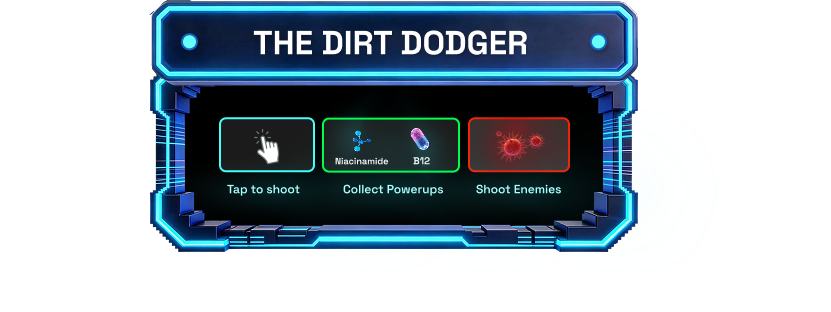
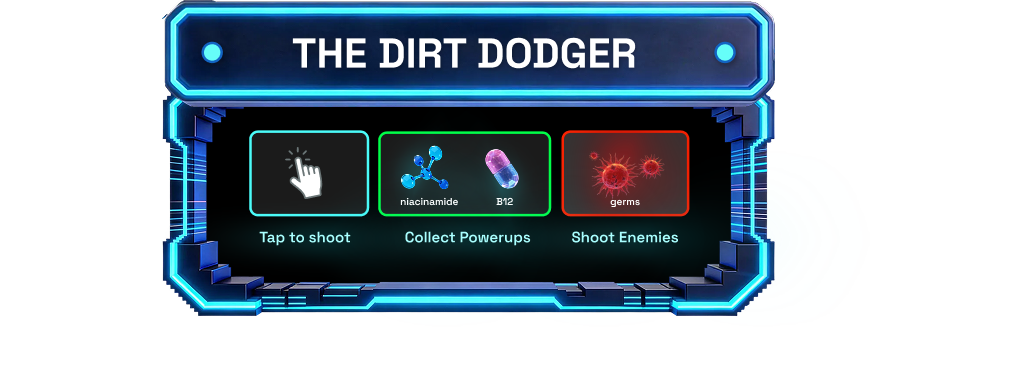
Morning changes

Changed region(s): [[0.1504, 0.0, 0.7822, 0.8654]]

diff --git a/src/game.js b/src/game.js
@@ -84,8 +84,8 @@
       });
       
       // New Pickups
-      this.load.image("niancinamide", "assets/Images/Modern-bike-game/Niancinamide_new.png");
-      this.load.image("b12", "assets/Images/Modern-bike-game/B12_new.png");
+      this.load.image("niancinamide", "assets/Images/Modern-bike-game/Niancinamide_2.png");
+      this.load.image("b12", "assets/Images/Modern-bike-game/B12_2.png");
       this.load.image("methanol_glow", "assets/Images/Methanol _glow_gradient.png");
       this.load.image("virus", "assets/Images/Modern-bike-game/Enemy_Virus.png");
       this.load.image("virus_glow", "assets/Images/Modern-bike-game/Enemy_Glow.png");
@@ -164,8 +164,9 @@
       this.bikeGlow = this.add.image(this.player.x, this.player.y, "bike_glow_new");
       this.bikeGlow.setOrigin(0.5, 0.5); 
       this.bikeGlow.setDepth(201); 
-      this.bikeGlow.displayWidth = BIKE_DISPLAY_W * 2.7;
-      this.bikeGlow.displayHeight = BIKE_DISPLAY_H * 2.7;
+      const glowScale = 415 / BIKE_DISPLAY_H;
+      this.bikeGlow.displayWidth = BIKE_DISPLAY_W * glowScale;
+      this.bikeGlow.displayHeight = 415;
       this.bikeGlow.setAlpha(0);
       this.bikeGlow.setVisible(false);
 
@@ -176,23 +177,6 @@
       this.dust.play("dust_anim");
       this.dust.setScale(0.4);
 
-      // --- START SCREEN ELEMENTS (Phaser) ---
-      this.startLogo = this.add.image(0, 0, "sah_logo");
-      this.startLogo.setDepth(100);
-      this.startLogo.setVisible(false);
-
-      this.startScreenContainer = this.add.container(0, 0);
-      this.startScreenContainer.setDepth(101);
-      this.startScreenContainer.setVisible(false);
-
-      this.startInstructions = this.add.image(0, 0, "start_instructions");
-      this.startBtnSprite = this.add.image(0, 0, "start_btn");
-      this.startBtnSprite.setInteractive({ useHandCursor: true });
-      this.startBtnSprite.on("pointerover", () => this.startBtnSprite.setScale(this.startBtnSprite.scale * 1.05));
-      this.startBtnSprite.on("pointerout", () => this.startBtnSprite.setScale(this.startBtnSprite.scale / 1.05));
-      this.startBtnSprite.on("pointerdown", () => this.startGame());
-
-      this.startScreenContainer.add([this.startInstructions, this.startBtnSprite]);
 
       // --- OBJECT POOLING ---
       this.ingredients = this.add.group();
@@ -268,33 +252,6 @@
         this.bikeGlow.angle = this.player.angle;
       }
 
-      // --- Reposition Start Screen Elements ---
-      if (this.startLogo) {
-        // Logo at top left with some margin for safe area
-        const logoPadding = Math.max(30, w * 0.04);
-        const logoScale = Math.min((w * 0.25) / this.startLogo.width, (h * 0.2) / this.startLogo.height, 0.45);
-        this.startLogo.setScale(logoScale);
-        this.startLogo.setPosition(logoPadding + (this.startLogo.displayWidth * 0.5), logoPadding + (this.startLogo.displayHeight * 0.5));
-      }
-
-      if (this.startScreenContainer && this.startInstructions && this.startBtnSprite) {
-        const instrS = Math.min((w * 0.85) / this.startInstructions.width, (h * 0.6) / this.startInstructions.height);
-        this.startInstructions.setScale(instrS);
-        
-        const btnScale = Math.min((w * 0.25) / this.startBtnSprite.width, (h * 0.12) / this.startBtnSprite.height, 0.9);
-        this.startBtnSprite.setScale(btnScale);
-
-        const gap = 30;
-        const totalHeight = (this.startInstructions.height * instrS) + gap + (this.startBtnSprite.height * btnScale);
-        
-        // Position instructions at relative 0 (centered in container)
-        this.startInstructions.setPosition(0, -totalHeight/2 + (this.startInstructions.height * instrS * 0.5));
-        // Position button below instructions
-        this.startBtnSprite.setPosition(0, this.startInstructions.y + (this.startInstructions.height * instrS * 0.5) + gap + (this.startBtnSprite.height * btnScale * 0.5));
-        
-        // Center the container on screen
-        this.startScreenContainer.setPosition(w / 2, h / 2);
-      }
 
       // Reposition end screen elements on resize
       if (this.endCreditsImg) {
@@ -317,21 +274,17 @@
 
     shoot() {
       if (this.waitingToStart) {
-        this.waitingToStart = false;
-        const startElements = [];
-        if (this.startScreenContainer) startElements.push(this.startScreenContainer);
-        if (this.startLogo) startElements.push(this.startLogo);
+        // Prevent immediate start from the same click
+        if (this.time.now - (this.startClickTime || 0) < 200) return;
 
-        if (startElements.length > 0) {
-          this.tweens.add({
-            targets: startElements,
-            alpha: 0,
-            duration: 500,
-            onComplete: () => {
-              startElements.forEach(el => el.setVisible(false));
-            }
-          });
+        this.waitingToStart = false;
+
+        // Request fullscreen on first tap
+        if (this.scale.fullscreenSupported) {
+          this.scale.startFullscreen();
         }
+
+
         if (this.motorcycleSound) {
           this.motorcycleSound.play();
         }
@@ -405,14 +358,7 @@
         this.bikeGlow.setVisible(false);
         this.bikeGlow.setAlpha(0);
       }
-      if (this.startScreenContainer) {
-        this.startScreenContainer.setVisible(true);
-        this.startScreenContainer.setAlpha(1);
-      }
-      if (this.startLogo) {
-        this.startLogo.setVisible(true);
-        this.startLogo.setAlpha(1);
-      }
+      
       if (this.dust) {
         this.dust.setVisible(false);
       }
@@ -426,19 +372,11 @@
       if (overlay) overlay.style.display = "none";
       if (hudEl) hudEl.style.display = "flex";
 
-      // Request fullscreen using Phaser's scale manager (more robust for mobile)
-      if (this.scale.fullscreenSupported) {
-        this.scale.startFullscreen();
-      } else {
-        // Fallback for browsers with restricted Fullscreen API (like some iOS versions)
-        const el = document.documentElement;
-        const rfs = el.requestFullscreen || el.webkitRequestFullscreen || el.mozRequestFullScreen || el.msRequestFullscreen;
-        if (rfs) rfs.call(el).catch(() => {});
-      }
-
       this.resetGameState();
       this.running = true;
       this.waitingToStart = true;
+      this.startClickTime = this.time.now; // Record when they clicked start
+
 
       if (this.victorySound) this.victorySound.stop();
     }
@@ -450,7 +388,7 @@
       // Full screen end credits image
       this.endCreditsImg = this.add.image(w / 2, h / 2, "end_credits");
       this.endCreditsImg.setDisplaySize(w, h);
-      this.endCreditsImg.setDepth(100);
+      this.endCreditsImg.setDepth(400);
       this.endCreditsImg.setAlpha(0);
 
       // Buttons container or positioning
@@ -469,7 +407,7 @@
         strokeThickness: 4
       });
       this.visitBtnText.setOrigin(0.5);
-      this.visitBtnText.setDepth(104);
+      this.visitBtnText.setDepth(404);
       this.visitBtnText.setAlpha(0);
 
       this.visitBtnBg = this.add.rectangle(
@@ -479,7 +417,7 @@
         0xc6422c
       );
       this.visitBtnBg.setOrigin(0.5);
-      this.visitBtnBg.setDepth(103);
+      this.visitBtnBg.setDepth(403);
       this.visitBtnBg.setAlpha(0);
       this.visitBtnBg.setInteractive({ useHandCursor: true });
       this.visitBtnBg.on("pointerover", () => this.visitBtnBg.setFillStyle(0xa83520));
@@ -679,7 +617,7 @@
 
     spawnIngredient() {
       const type = Math.random() < 0.5 ? "niancinamide" : "b12";
-      const sz = (60 + Math.random() * 20) * 1.3 * 2; 
+      const sz = 80 * 1.3 * 2; 
       const y = this.groundY - sz / 2 + 5; 
       const x = this.scale.width + 80;
 

diff --git a/styles.css b/styles.css
@@ -147,7 +147,88 @@ body {
 
 
 /* ---------- Rotate-to-landscape prompt ---------- */
+@media (orientation: portrait) {
+  #overlay {
+    display: none !important;
+  }
+}
 
+/* ---------- Overlay (Welcome Screen) ---------- */
+.overlay {
+  position: absolute;
+  inset: 0;
+  display: flex;
+  flex-direction: column;
+  z-index: 30;
+  background: transparent;
+  pointer-events: auto;
+}
+
+/* --- Logo badge --- */
+.overlay-logo {
+  position: absolute;
+  top: clamp(20px, 8vh, 60px);
+  left: 40px;
+  background: #1a1a2e;
+  padding: clamp(4px, 0.8vw, 8px);
+  display: flex;
+  align-items: center;
+  justify-content: center;
+  border-radius: 4px;
+}
+
+.overlay-logo-img {
+  width: clamp(120px, 28vh, 320px);
+  height: auto;
+  display: block;
+}
+
+/* --- Center content --- */
+.overlay-center {
+  flex: 1;
+  display: flex;
+  flex-direction: column;
+  align-items: center;
+  justify-content: center;
+  gap: 4vh;
+  padding: 0 16px;
+  /* slight vertical offset to sit above bike */
+  margin-top: -4vh;
+}
+
+.start-instructions-img {
+  max-width: 95%;
+  max-height: 60vh;
+  object-fit: contain;
+  margin-bottom: 0;
+}
+
+.overlay-btn-img {
+  background: none;
+  border: none;
+  padding: 0;
+  cursor: pointer;
+  transition: transform 0.2s ease;
+  margin-top: 0;
+  position: relative;
+  z-index: 10;
+}
+
+.overlay-btn-img img {
+  height: clamp(50px, 12vh, 80px);
+  width: auto;
+  display: block;
+}
+
+.overlay-btn-img:hover {
+  transform: scale(1.05);
+}
+
+.overlay-btn-img:active {
+  transform: scale(0.95);
+}
+
+/* ---------- Rotate-to-landscape prompt ---------- */
 .rotate-prompt {
   display: none; /* Controlled by JS now */
   position: fixed;

diff --git a/index.html b/index.html
@@ -7,7 +7,7 @@
     <link rel="preconnect" href="https://fonts.googleapis.com" />
     <link rel="preconnect" href="https://fonts.gstatic.com" crossorigin />
     <link href="https://fonts.googleapis.com/css2?family=Press+Start+2P&display=swap" rel="stylesheet" />
-    <link rel="stylesheet" href="styles.css?v=1.9.8" />
+    <link rel="stylesheet" href="styles.css?v=2.0.7" />
     <!-- Phaser 3 for HTML5 2D creative (local, no CDN) -->
     <script src="assets/phaser.min.js"></script>
     <!-- Lottie for celebrations -->
@@ -44,7 +44,19 @@
           </div>
         </div>
       </div>
+      <div class="overlay" id="overlay">
+        <div class="overlay-logo">
+          <img src="assets/Images/SAH_LOGO.png" alt="Smart and Handsome Logo" class="overlay-logo-img" />
+        </div>
+        <div class="overlay-center">
+          <img src="assets/Images/Modern-bike-game/Start_Instructions.png" alt="Start Instructions" class="start-instructions-img" />
+
+          <button id="start" class="overlay-btn-img">
+            <img src="assets/Images/Modern-bike-game/Start_btn.png" alt="START GAME" />
+          </button>
+        </div>
+      </div>
     </main>
-    <script src="src/game.js?v=1.9.9"></script>
+    <script src="src/game.js?v=2.0.7"></script>
   </body>
 </html>
